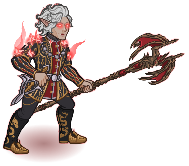
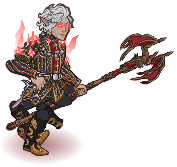
feat:补充飞升阿斯代伦立绘override

Changed region(s): [[0.0, 0.0, 0.9887, 0.9337]]

diff --git a/docs/research/data/skin-illustration-override-audit-research.md b/docs/research/data/skin-illustration-override-audit-research.md
@@ -10,25 +10,26 @@
 
 ## 1. 结论先行
 
-截至 2026-04-16，这一轮系统抽样得到的结论是：
+截至 2026-04-16，这一轮系统抽样与人工复核得到的结论是：
 
-- **当前清单元数据本身不能直接自动告诉我们“哪张图一定错了”。**
-- `672 / 672` 个皮肤立绘当前都还是：
-  - `sourceSlot = xl`
-  - 首轮抽样前全部是 `render.sequenceIndex = 0`
-  - 首轮抽样前全部是 `render.frameIndex = 0`
-- 这意味着：仅看最初的 `champion-illustrations.json`，无法像“查非 0 frame”那样直接筛出错误项。
-- 所以这轮抽样改用“**同英雄内部尺寸偏差 + 主题分类 + 已复核样例回避**”的方法，先筛出**最值得优先肉眼复核**的候选。
-- 第一轮已实际落地两条高置信 override：
+- **当前清单元数据本身仍不能直接自动告诉我们“哪张图一定错了”。**
+- `672 / 672` 个皮肤立绘当前都还是 `sourceSlot = xl`。
+- 在已经落地 3 条人工 override 后，当前只有这 3 个 skin 不是默认 `sequence 0 / frame 0`：
   - `368`：半精灵变异哨兵 -> `sequence 1 / frame 11`
+  - `473`：飞升阿斯代伦 -> `sequence 1 / frame 30`
   - `520`：舞厅蔚 -> `sequence 1 / frame 7`
-- 这两条落地后，当前剩余最优先复核的**非显式主题异常**样本变成：
+- 这意味着：**即使现在已经有少量人工修正，元数据仍不足以自动判定“剩下哪张一定错”。**
+- 所以这轮抽样继续使用“**同英雄内部尺寸偏差 + 主题分类 + 已复核样例回避**”的方法，先筛出**最值得优先肉眼复核**的候选。
+- 当前剩余最优先复核的**非显式主题异常**样本仍是：
   1. `367`：半人马变异希契
   2. `452`：斑猫人变异珊蒂
   3. `550`：泰尔那多贾希拉
-- 第二批再看这 10 个**结构偏差明显、但主题上也可能天然偏大的样本**：
-  - `362`、`290`、`515`、`473`、`111`、`390`、`123`、`333`、`133`、`327`
-- 明显偏小的 `毛绒 / 宝宝 / 玩偶` 类样本，本轮不建议优先写 override；它们更像主题造型本意，而不是 pose 选错。
+- 第二批前 5 个样本已经做过一轮目检，其中：
+  - `473` 已确认值得落地 override；
+  - `362`、`290`、`515`、`111` 当前都**不建议**写 override。
+- 如果继续向后推进，第二批中仍值得再看的剩余样本是：
+  - `390`、`123`、`333`、`133`、`327`
+- 明显偏小的 `毛绒 / 宝宝 / 玩偶` 类样本，本轮仍不建议优先写 override；它们更像主题造型本意，而不是 pose 选错。
 
 这里必须保持克制：
 
@@ -39,23 +40,26 @@
 
 ## 2. 这轮为什么不能直接从清单里找出错误图
 
-我先核了当前立绘清单的共性字段，结果很一致：
+我先核了当前立绘清单的共性字段，结果是：
 
 - 皮肤总数：`672`
 - `sourceSlot = xl`：`672`
 - `render.pipeline = skelanim`：`672`
-- `render.sequenceIndex = 0`：`672`
-- `render.frameIndex = 0`：`672`
+- `render.sequenceIndex = 0`：`669`
+- `render.frameIndex = 0`：`669`
+- 非默认 `sequence / frame` 的只有：
+  - `368`
+  - `473`
+  - `520`
 
-这说明当前构建产物虽然已经修正了坐标系和基础 pose 选择问题，但从元数据层面看，所有皮肤仍然统一落在：
+这说明当前构建产物虽然已经修正了坐标系和基础 pose 选择问题，也已经开始支持人工覆盖，但从元数据层面看：
 
-- 同一个 slot 优先级结果
-- 同一个默认 sequence
-- 同一个默认 frame
+- 绝大多数皮肤仍然统一落在同一个默认 sequence / frame；
+- 少量非 0 的条目来自**人工 override 结果**，不是清单自动告诉我们的“异常标记”。
 
-因此，**现在没有任何一个简单字段可以直接指向“这张图错了”。**
+因此，**现在仍然没有任何一个简单字段可以直接指向“这张图错了”。**
 
-也正因为如此，这一轮不能靠纯字段过滤解决，只能改成“结构偏差抽样 + 人工复核优先级排序”。
+也正因为如此，这一轮不能靠纯字段过滤解决，只能继续依赖“结构偏差抽样 + 人工复核优先级排序”。
 
 ---
 
@@ -119,7 +123,7 @@ node scripts/audit-idle-champions-illustration-overrides.mjs
 
 ## 4. 当前抽样结果总览
 
-在落地 `368` 与 `520` 之后，本轮脚本最新产出的高优先级样本共 `18` 个，分为四类：
+在落地 `368`、`473` 与 `520` 之后，本轮脚本最新产出的高优先级样本仍有 `18` 个，分为四类：
 
 - `non-obvious`：`3`
   - 结构偏差明显，但名字上又不是明显的“毛绒 / 巨人 / 飞升”主题
@@ -135,7 +139,7 @@ node scripts/audit-idle-champions-illustration-overrides.mjs
 
 ---
 
-## 5. 当前已落地的第一批 override
+## 5. 当前已落地的 override
 
 ### 5.1 `368`：半精灵变异哨兵
 
@@ -163,77 +167,82 @@ node scripts/audit-idle-champions-illustration-overrides.mjs
   - 这条调整把成图从“横向展开偏大”拉回到更接近蔚皮肤组中位尺寸；
   - 已写入 `scripts/data/champion-illustration-overrides.json`。
 
+### 5.3 `473`：飞升阿斯代伦
+
+- 落地规则：
+  - `preferredSequenceIndexes = [1]`
+  - `preferredFrameIndexes = [30]`
+- 落地后结果：
+  - `render.sequenceIndex: 0 -> 1`
+  - `render.frameIndex: 0 -> 30`
+  - 尺寸从 `189 x 166` 调整为 `177 x 167`
+- 当前判断：
+  - 这条调整把默认 pose 里横向外展过大的武器收回来一些，人物主体更集中；
+  - 它落地后仍会被结构偏差脚本列进 `theme-expanded`，这也再次说明审计脚本只能做“候选排序”，不能替代人工目检；
+  - 已写入 `scripts/data/champion-illustration-overrides.json`。
+
 ---
 
-## 6. 当前最优先复核的 3 个 non-obvious skin
+## 6. 第一批 non-obvious 样本复核结果
 
-这 3 个是当前最值得继续先看的一批，因为它们：
-
-- 在同英雄组内偏差明显；
-- 但名称上又不属于“天然应该缩小 / 放大”的明确主题；
-- 如果真要开始补第一批 override，应该先从这里确认。
+这 3 个样本都已经做过 `current vs 候选 pose` 的对比图复核。当前结论如下：
 
 ### 6.1 `367`：半人马变异希契
 
 - 英雄：希契
-- 原因：
-  - 宽度是同英雄中位数的 `1.81x`
-  - 面积是同英雄中位数的 `1.99x`
+- 当前图：
+  - `sequence 0 / frame 0`
   - 成图尺寸 `226 x 182`
+- 目检过的候选：
+  - `sequence 1 / frame 2`
+  - 候选成图尺寸 `199 x 186`
 - 当前判断：
-  - 这张图的“横向展开”非常明显；
-  - 主题名本身没有像 `毛绒 / 飞升 / 巨人` 那样明确解释这个偏差；
-  - **建议排第一批。**
+  - 候选图确实更收敛一些；
+  - 但对照希契其他皮肤一起看，`半人马` 主题本身就天然更宽，当前候选并没有形成“明显更对”的压倒性优势；
+  - 候选 pose 里武器可读性还略弱一些；
+  - **暂不落 override，继续保留人工待定。**
 
 ### 6.2 `452`：斑猫人变异珊蒂
 
 - 英雄：珊蒂
-- 原因：
-  - 宽度是同英雄中位数的 `1.47x`
-  - 面积是同英雄中位数的 `1.77x`
 - 当前判断：
-  - 宽度扩张明显，但又不是显式大型主题；
-  - **建议第一批复核。**
+  - 候选 pose 与当前图几乎等价；
+  - 当前没有看到足够明确的视觉收益；
+  - **不建议写 override。**
 
 ### 6.3 `550`：泰尔那多贾希拉
 
 - 英雄：贾希拉
-- 原因：
-  - 宽度是同英雄中位数的 `1.55x`
-  - 面积是同英雄中位数的 `1.55x`
 - 当前判断：
-  - 横向展开明显，但没有显式巨型主题解释；
-  - **建议第一批复核。**
+  - 候选 pose 与当前图差异很小；
+  - 当前没有看到足够明确的视觉收益；
+  - **不建议写 override。**
 
 ---
 
-## 7. 第二批建议复核的 10 个 skin
+## 7. 第二批前 5 个样本复核结果
 
-这批结构偏差也很高，但它们的主题名本身就更像会带来自然尺寸变化，所以排在第二批：
+这批样本都属于“结构偏差高，但主题上也可能天然偏大”的情况。前 5 个样本当前复核结论如下：
 
-| skinId | 名称 | 当前优先原因 |
+| skinId | 名称 | 当前结论 |
 | --- | --- | --- |
-| `362` | 神裔变异弗里 | 宽度 `2.02x`，面积 `2.90x` |
-| `290` | 魔冢安裘斯 | 宽度 `2.18x`，面积 `2.85x` |
-| `515` | 魔冢文·乌尔萨 | 宽度 `1.61x`，高度 `1.46x`，面积 `2.33x` |
-| `473` | 飞升阿斯代伦 | 宽度 `1.57x`，`visiblePieceCount = 49` |
-| `111` | 女巫之光德丽娜 | 宽度 `1.55x`，面积 `1.93x` |
-| `390` | 夺心魔维康妮亚 | 宽度 `1.79x`，面积 `1.79x` |
-| `123` | 星运弗里 | 宽度 `1.60x`，面积 `1.77x` |
-| `333` | 魔冢伊万德拉 | 宽度 `1.76x`，面积 `1.62x` |
-| `133` | 星运伊芙琳 | 高度 `1.44x`，成图 `140 x 244` |
-| `327` | 宇宙梦魇沃罗妮卡 | 宽度 `1.63x`，面积 `1.66x` |
+| `362` | 神裔变异弗里 | 候选 `sequence 1 / frame 0` 只带来轻微变化，**不建议写 override** |
+| `290` | 魔冢安裘斯 | 当前图基本已经是最优，**不建议写 override** |
+| `515` | 魔冢文·乌尔萨 | 当前图基本已经是最优，**不建议写 override** |
+| `473` | 飞升阿斯代伦 | 候选 `sequence 1 / frame 30` 视觉收敛更明显，**已落地 override** |
+| `111` | 女巫之光德丽娜 | 候选 `sequence 0 / frame 37` 变化极小，**不建议写 override** |
 
 说明：
 
-- 这批不是说“当前就一定错”；
-- 而是说：**如果第一批复核后，确实出现了需要 `preferredSequenceIndexes / preferredFrameIndexes` 的案例，那么第二批最值得继续看这 10 个。**
+- 第二批前 5 个里，真正值得落地的目前只有 `473`；
+- 这也说明“结构偏差高”并不等于“当前 pose 一定错”；
+- 如果要继续往后看，第二批剩余待检样本是：`390`、`123`、`333`、`133`、`327`。
 
 ---
 
 ## 8. 当前不建议优先写 override 的样本
 
-### 7.1 明显缩小主题
+### 8.1 明显缩小主题
 
 当前抽样里这 3 个样本虽然偏差高，但更像主题造型本意：
 
@@ -246,7 +255,7 @@ node scripts/audit-idle-champions-illustration-overrides.mjs
 - 除非肉眼确认 pose 真的不对；
 - 否则不建议因为“它比别的皮肤小”就直接写 override。
 
-### 7.2 已复核正常的参考样本
+### 8.2 已复核正常的参考样本
 
 这轮仍保留一个高偏差但已人工确认正常的参考样本：
 
@@ -261,10 +270,10 @@ node scripts/audit-idle-champions-illustration-overrides.mjs
 
 ## 9. 推荐的下一步执行顺序
 
-如果下一轮开始真的要录 override，建议按这个顺序推进：
+如果下一轮继续录 override，建议按这个顺序推进：
 
-1. 先继续目检剩余 3 个 non-obvious：`367, 452, 550`
-2. 只要其中有 1~2 个确认“确实应换 pose / frame”，就继续看第二批前 5 个：`362, 290, 515, 473, 111`
+1. 继续谨慎观察 `367`，但在没有更强视觉证据前不要仓促落规则
+2. 把第二批剩余待检样本推进到下一轮：`390, 123, 333, 133, 327`
 3. 把确实需要调整的样本写入 `scripts/data/champion-illustration-overrides.json`
 4. 每录一批，都只做小范围重渲染，不要立刻全量重建
 
@@ -277,7 +286,7 @@ node scripts/sync-idle-champions-illustrations.mjs \
   --illustrationOverrides scripts/data/champion-illustration-overrides.json \
   --outputDir tmp/render-validation \
   --currentVersion v1 \
-  --skinIds 367,452,550 \
+  --skinIds 367,390,123,333,133,327 \
   --concurrency 2
 ```
 
